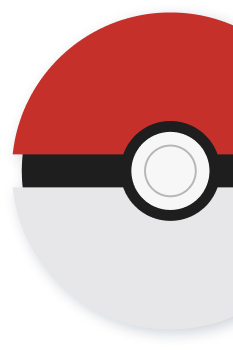
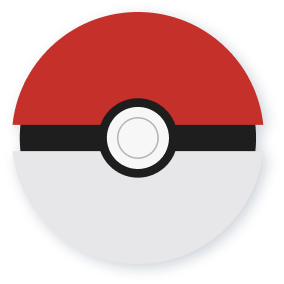
add parallax

diff --git a/src/components/Parallax/index.tsx b/src/components/Parallax/index.tsx
@@ -1,4 +1,4 @@
-import React from 'react';
+import React, { useEffect, useState } from 'react';
 
 import SmallPokeBallPng from 'assets/images/PokeBall1.png';
 import CloudPng from 'assets/images/Cloud1.png';
@@ -9,23 +9,58 @@ import PikachuPng from 'assets/images/Pikachu.png';
 import s from './Parallax.module.scss';
 
 const Parallax = () => {
+  const [screenX, setScreenX] = useState(0);
+  const [screenY, setScreenY] = useState(0);
+
+  useEffect(() => {
+    const handleMouseMove = (event: MouseEvent) => {
+      setScreenX(event.screenX);
+      setScreenY(event.screenY);
+    };
+
+    window.addEventListener('mousemove', handleMouseMove);
+
+    return () => window.removeEventListener('mousemove', handleMouseMove);
+  }, [screenX, screenY]);
+
   return (
     <div className={s.root}>
-      <div className={s.smallPokeBall}>
+      <div
+        style={{
+          transform: `translate(${screenX * -0.01}px, ${screenY * -0.01}px) `,
+        }}
+        className={s.smallPokeBall}>
         <img src={SmallPokeBallPng} alt="Small PokeBall" />
       </div>
-      <div className={s.cloud}>
-        <img src={CloudPng} alt="Cloud PokeBall" />
+      <div
+        style={{
+          transform: `translate(${screenX * -0.02}px, ${screenY * -0.02}px)`,
+        }}
+        className={s.cloud}>
+        <img src={CloudPng} alt="Cloud" />
       </div>
-      <div className={s.cloudBig}>
-        <img src={CloudBigPng} alt="Cloud Big PokeBall" />
+      <div
+        style={{
+          transform: `translate(${screenX * 0.03}px, ${screenY * 0.03}px)`,
+        }}
+        className={s.cloudBig}>
+        <img src={CloudBigPng} alt="Cloud Big" />
       </div>
-
-      <div className={s.pokeBall}>
+      <div
+        style={{
+          zIndex: 1,
+          transform: `translate(${screenX * 0.1}px, ${screenY * 0.04}px) rotate(${screenX * 0.5}deg) 
+          scale(${(screenX < 400 ? 400 : screenX) * 0.001})`,
+        }}
+        className={s.pokeBall}>
         <img src={PokeBallPng} alt="Big PokeBall" />
       </div>
-      <div className={s.pikachu}>
-        <img src={PikachuPng} alt="Cloud PokeBall" />
+      <div
+        style={{
+          transform: `translate(${screenY * 0.05}px, ${screenX * 0.05}px)`,
+        }}
+        className={s.pikachu}>
+        <img src={PikachuPng} alt="Pikachu" />
       </div>
     </div>
   );

diff --git a/src/pages/Home/index.tsx b/src/pages/Home/index.tsx
@@ -1,10 +1,13 @@
 import React from 'react';
+import { NavLink } from 'react-router-dom';
 
 import Header from 'components/Header';
 import Button from 'components/Button';
+import Layout from 'components/Layout';
+import Parallax from 'components/Parallax';
+import Footer from 'components/Footer/Footer';
+import Heading from 'components/Heading';
 import s from './Home.module.scss';
-import Layout from '../../components/Layout';
-import Parallax from '../../components/Parallax';
 
 const Home = () => {
   return (
@@ -12,14 +15,21 @@ const Home = () => {
       <Header />
       <Layout className={s.contentWrap}>
         <div className={s.contentText}>
-          <h1>FInd all your favourite Pokemon</h1>
+          <Heading>
+            <b>Find</b> all your favorite <b>Pokemon</b>
+          </Heading>
           <p>You can know the type of Pokemon, its strengths, disadvantages and abilities</p>
-          <Button onClick={() => {}}>See pokemons</Button>
+          <NavLink style={{ textDecoration: 'none' }} to="/pokedex">
+            <Button backgroundColor="yellow" width="100%" size="small" onClick={() => {}}>
+              See pokemons
+            </Button>
+          </NavLink>
         </div>
         <div className={s.contentParallax}>
           <Parallax />
         </div>
       </Layout>
+      <Footer />
     </div>
   );
 };

diff --git a/src/pages/Home/Home.module.scss b/src/pages/Home/Home.module.scss
@@ -1,6 +1,21 @@
 @import '../../varibales.scss';
 
 .root {
+  overflow: hidden;
   min-height: 100vh;
   background: linear-gradient(180deg, $third 0%, $primary 100%);
+}
+
+.contentWrap {
+  //position: relative;
+  display: flex;
+  justify-content: center;
+  align-items: center;
+  min-height: 877px;
+}
+
+.contentText {
+}
+
+.contentParallax {
 }

diff --git a/src/_varibales.scss b/src/_varibales.scss
@@ -1,6 +1,14 @@
-$third: #F5DB13;
-$primary: #F2B807;
-$second: #F28F16;
-$danger: #D93E30;
-$white: #F2F2F2;
+$third: #f5db13;
+$primary: #f2b807;
+$second: #f28f16;
+$danger: #d93e30;
+$white: #f2f2f2;
 $dark: #212121;
+
+$h1: 72px;
+$h2: 64px;
+$h3: 36px;
+$h4: 24px;
+$h5: 18px;
+$h6: 12px;
+$paragraph: 16px;

diff --git a/src/components/Header/Header.module.scss b/src/components/Header/Header.module.scss
@@ -5,6 +5,7 @@
   display: flex;
   justify-content: center;
   align-items: center;
+  box-shadow: 0px 4px 16px rgba(1, 28, 64, 0.2);
 }
 
 .wrap {

diff --git a/src/components/Header/index.tsx b/src/components/Header/index.tsx
@@ -18,7 +18,7 @@ const MENU: IMenu[] = [
   {
     id: 2,
     value: 'Pokédex',
-    link: '#',
+    link: '/pokedex',
   },
   {
     id: 3,

diff --git a/src/components/Footer/Footer.module.scss b/src/components/Footer/Footer.module.scss
@@ -10,6 +10,7 @@
   display: flex;
   justify-content: space-between;
   margin: 0 auto;
+  align-items: center;
 }
 
 .text {
